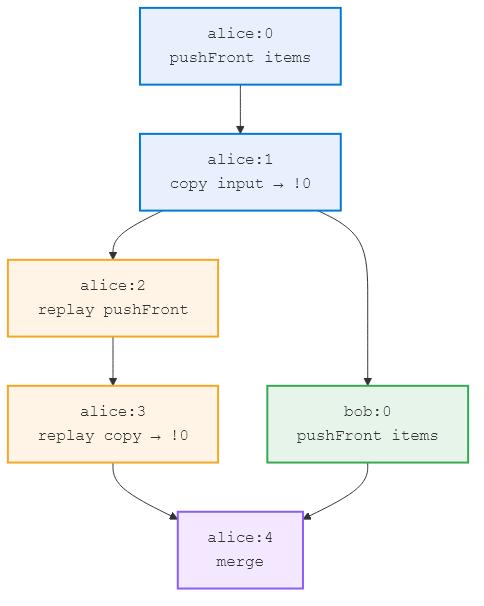
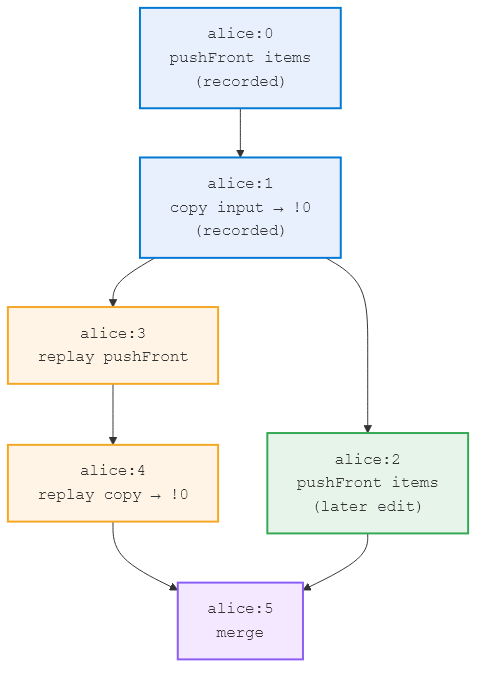
Simplify replay diagram to single peer, remove Bob references
All events are from Alice. Later edit (green) and replay (orange)
fork from the recording point, showing they are concurrent.

diff --git a/4-implementation.md b/4-implementation.md
@@ -156,12 +156,12 @@ References (`$ref`) in formula arguments are resolved relative to the formula's 
 Programming by demonstration is implemented through event recording and replay:
 
 1. **Recording.** When a user performs an edit, the resulting event ID is stored in a list of *replay steps* --- typically attached to a button node in the document.
-2. **Replay.** When the user triggers a replay, the system re-executes the recorded edits as if they were *concurrent* with all events that happened after the recording. Each step's event ID is passed to `resolveReplayEdit`, which walks the causal history back to the recording point and transforms the replayed edit forward through every later structural change. This is illustrated in [@Fig:replay]: the replay events (orange) fork from the same point as Bob's concurrent edit (green), and merge at the end.
+2. **Replay.** When the user triggers a replay, the system re-executes the recorded edits as if they were *concurrent* with all events that happened after the recording. Each step's event ID is passed to `resolveReplayEdit`, which walks the causal history back to the recording point and transforms the replayed edit forward through every later structural change. This is illustrated in [@Fig:replay]: the replay events (orange) fork from the recording point, concurrent with later edits (green), and merge at the end.
 3. **Batch replay.** When replaying multiple steps as a batch (e.g., all steps of an "Add Speaker" button), same-batch events are excluded from retargeting each other. This prevents cascading transformations within a single replay sequence.
 
-![Replay as concurrent re-execution. The recorded edits (alice:0, alice:1) are replayed as new events (alice:2, alice:3) that fork from the recording point, making them concurrent with Bob's later edit. The strict index `!0` ensures the copy targets the item just created by the replay, not Bob's insertion.](img/replay.png){#fig:replay width=95%}
+![Replay as concurrent re-execution. The recorded edits (blue) are replayed as new events (orange) that fork from the recording point, making them concurrent with the later edits (green). The strict index `!0` ensures the copy targets the item just created by the replay, not the item from the later edit.](img/replay.png){#fig:replay width=95%}
 
-Strict indices (`!0`) are essential for replay: a regular index `0` would be shifted by Bob's concurrent `pushFront`, causing the copy to target Bob's item instead of the replayed one. The strict index `!0` refers to position 0 *at the recording point*, which OT does not shift through concurrent insertions.
+Strict indices (`!0`) are essential for replay: a regular index `0` would be shifted by the concurrent `pushFront` on the other branch, causing the copy to target the wrong item. The strict index `!0` refers to position 0 *at the recording point*, which OT does not shift through concurrent insertions.
 
 The replay mechanism uses the same OT infrastructure as materialization --- the difference is that during replay, only the single replayed event is transformed, not the entire history.
 
